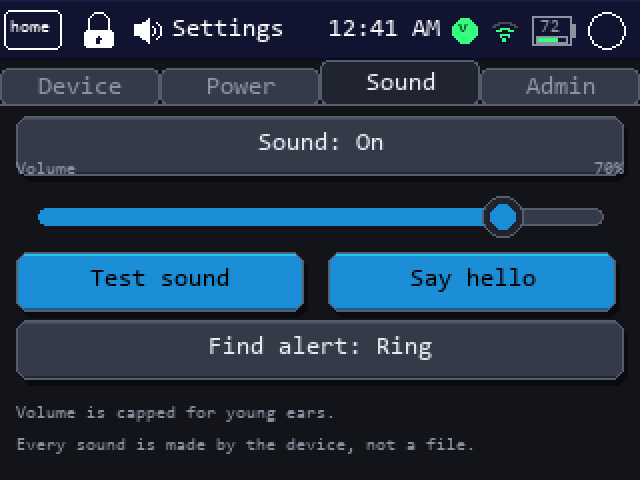
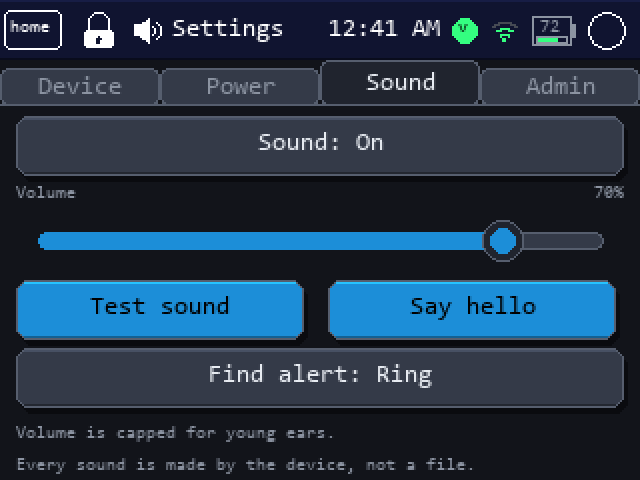
The Sound tab measures its own stack, and the mock-up stops lying about it
"Volume" was printed across the bottom of the mute switch on every console.
The caption is drawn 12px above the slider; the slider sat on the shared grid's
row 1 at y=92; the mute button above it ran 58 to 88. So the caption landed at
80, eight pixels inside a button it was never meant to touch, on every board,
since the grid's pitch last changed.

What kept it out of sight is the more interesting half. The comment above
muteRect() described the stack as 58 / 104 / 148 -- a pitch of about 45 that
gridRowPitch() has not produced for some time -- and tools/gen_screens.py had
copied those same literals. So docs/screens/settings-sound.png drew a layout
the firmware was not producing, and the picture and the panel were only ever
compared to themselves. A mock-up that restates numbers cannot catch a layout
bug; it can only agree with whichever comment it was written from.

The fix is not a nudged line, because the tab genuinely does not fit the shared
grid. Every other tab stacks four plain buttons, which is exactly what a 34px
pitch is sized for; this one has those four controls plus a caption line plus
two footnotes, and a 44px slider band will not go into a 34px row. So the Sound
tab now measures its own bands, each from the one above it, borrowing only the
row height so its buttons still match the other tabs. On 240 that is mute
58-88, caption 92-104, track 104-136, tests 140-170, find alert 174-204,
[…]

Changed region(s): [[0.0, 0.3125, 1.0, 1.0]]

diff --git a/src/games/SettingsPanels.cpp b/src/games/SettingsPanels.cpp
@@ -43,6 +43,13 @@ constexpr int16_t SETTINGS_TOP = 58;
 constexpr int16_t SETTINGS_BOTTOM_RESERVE = 36;   // the brightness bar
 constexpr int16_t SETTINGS_MIN_PITCH = 34;
 constexpr int16_t SETTINGS_MAX_ROW_H = 44;
+
+/* The Sound tab's own stack -- see the comment above muteRect(). Gaps rather
+ * than a pitch, because this tab's bands are not all the same height. */
+constexpr int16_t SOUND_GAP = 4;
+constexpr int16_t SOUND_CAPTION_H = 12;   // the "Volume" / "70%" line
+constexpr int16_t SOUND_TRACK_H = 32;     // the slider itself
+constexpr int16_t SOUND_FOOT_GAP = 8;
 }  // namespace
 
 int16_t SettingsApp::gridRowPitch() const {
@@ -91,46 +98,72 @@ Rect SettingsApp::brightRect() const {
                 static_cast<int16_t>(panelW_ - SETTINGS_MARGIN * 2), 32};
 }
 
-/* Sound tab.
+/* Sound tab: NOT the shared four-row grid, and it cannot be.
  *
- * Mute is a full-width row of its own because it is the control most people
- * come to this tab for and it should not have to be found. Below it the
- * volume slider, then the two test buttons side by side.
+ * Every other tab stacks four plain buttons, which is exactly what
+ * gridRowPitch() is sized for -- 34px on a 240 panel. This tab has those same
+ * four controls PLUS a caption line above the slider and two lines of
+ * footnote, and a 44px slider band does not fit in a 34px row.
  *
- * The vertical stack is NOT typed in here, and the numbers below are only a
- * reading of it -- gridRowPitch() derives the pitch from the live panel, which
- * on 240px is (240 - 36 - 8 - 58) / 4 = 34, putting the four rows at 58, 92,
- * 126 and 160, each 30 tall. Row 3 is the find-alert switch, and the two
- * explanation lines derive from it rather than sitting at a literal, so they
- * move with it; that leaves 14px of margin at the bottom.
+ * It did not fit before either, and the panel showed it: the caption is drawn
+ * 12px above the slider, the slider sat at the grid's row 1 (y=92), so the
+ * caption landed at 80 -- eight pixels INSIDE the mute button above it, which
+ * ran from 58 to 88. Every owner saw "Volume" printed across the bottom of the
+ * mute switch. What hid it from review was the mock-up: gen_screens.py had
+ * copied a comment here that still described a pitch of ~45 (rows at 58 / 104
+ * / 148), so the picture drew a layout the firmware had not produced for some
+ * time, and the two were never compared to anything but themselves.
  *
- * This comment previously stated 58 / 104 / 148 for the first three rows, from
- * a pitch that has not held for some time, and tools/gen_screens.py had copied
- * those literals -- which is why the mock-up disagreed with the panel without
- * anything noticing. Read the numbers off gridRowPitch(), or do not state them.
+ * So this tab measures its own bands, in the order they are drawn, each from
+ * the one above it. The row height is still borrowed from the grid so the
+ * buttons match the other tabs, and everything scales with the panel: on 240
+ * that is mute 58-88, caption 92-104, track 104-136, tests 140-170, find alert
+ * 174-204, footnotes at 212 and 228, ending 4px clear of the bottom.
  *
- * Row 3 was the one spare row this tab had, and it is now spent: anything
- * further needs a tab of its own rather than a squeeze.
- *
- * The footnotes are derived from the last row rather than fixed, so they move
- * with it -- they were at a literal 190/206 once, which put them straight
- * through the test buttons on a taller panel. */
-Rect SettingsApp::muteRect()      const { return gridWide(0); }
-/* Takes the grid's position but keeps its designed height.
- *
- * A button gets easier to hit as it grows; a slider does not -- what matters
- * is the length of its travel, which is already the full width. Letting it
- * take the grid's row height made the rect 46px tall, and drawSlider centres
- * the track inside the rect, so the track sank while the "Volume" caption
- * stayed pinned above the rect's top edge and was left floating in the gap.
- * The brightness bar has always been a fixed 32 for the same reason. */
-Rect SettingsApp::volumeRect()    const {
-    const Rect r = gridWide(1);
-    return Rect{r.x, r.y, r.w, 32};
+ * Do not restate those numbers anywhere else. Derive them, as gen_screens.py
+ * now does, or the next reader inherits the same lie. */
+Rect SettingsApp::muteRect() const {
+    return Rect{SETTINGS_MARGIN, SETTINGS_TOP,
+                static_cast<int16_t>(panelW_ - SETTINGS_MARGIN * 2),
+                gridRowHeight()};
 }
-Rect SettingsApp::testCueRect()   const { return gridCell(2, 0); }
-Rect SettingsApp::testVoiceRect() const { return gridCell(2, 1); }
-Rect SettingsApp::findAlertRect() const { return gridWide(3); }
+
+/* The slider TRACK, with its caption in the SOUND_CAPTION_H above it.
+ *
+ * A fixed height rather than the row height: a button gets easier to hit as it
+ * grows, a slider does not -- what matters is the length of its travel, which
+ * is already the full width. Letting it take a 46px row made drawSlider centre
+ * the track low while the caption stayed pinned to the rect's top edge, and
+ * left the two floating apart. */
+Rect SettingsApp::volumeRect() const {
+    const Rect m = muteRect();
+    return Rect{SETTINGS_MARGIN,
+                static_cast<int16_t>(m.y + m.h + SOUND_GAP + SOUND_CAPTION_H),
+                static_cast<int16_t>(panelW_ - SETTINGS_MARGIN * 2),
+                SOUND_TRACK_H};
+}
+
+Rect SettingsApp::testCueRect() const {
+    const Rect v = volumeRect();
+    const int16_t colW = static_cast<int16_t>(
+        (panelW_ - SETTINGS_MARGIN - SETTINGS_GAP - SETTINGS_GAP) / 2);
+    return Rect{SETTINGS_MARGIN,
+                static_cast<int16_t>(v.y + v.h + SOUND_GAP), colW,
+                gridRowHeight()};
+}
+
+Rect SettingsApp::testVoiceRect() const {
+    const Rect a = testCueRect();
+    return Rect{static_cast<int16_t>(SETTINGS_MARGIN + a.w + SETTINGS_GAP),
+                a.y, a.w, a.h};
+}
+
+Rect SettingsApp::findAlertRect() const {
+    const Rect t = testCueRect();
+    return Rect{SETTINGS_MARGIN, static_cast<int16_t>(t.y + t.h + SOUND_GAP),
+                static_cast<int16_t>(panelW_ - SETTINGS_MARGIN * 2),
+                gridRowHeight()};
+}
 
 /* Power tab: four full-width rows, so the labels have room to say what the
  * setting actually does rather than abbreviating to fit half a screen.
@@ -363,12 +396,12 @@ void SettingsApp::renderSoundTab(GameHost& host) {
     /* The footnotes sit under the test buttons, so they move with them. They
      * were at a fixed 190/206, which was under the buttons at 240 tall and
      * straight through them on a taller panel. */
-    const int16_t soundFootY =
-        static_cast<int16_t>(findAlertRect().y + findAlertRect().h + 12);
+    const int16_t soundFootY = static_cast<int16_t>(
+        findAlertRect().y + findAlertRect().h + SOUND_FOOT_GAP);
 
     tft.setTextColor(Ui::muted(), Ui::bg());
     tft.setTextDatum(TL_DATUM);
-    tft.drawString("Volume", 8, static_cast<int16_t>(volumeRect().y - 12), 1);
+    tft.drawString("Volume", 8, static_cast<int16_t>(volumeRect().y - SOUND_CAPTION_H), 1);
     tft.setTextDatum(TR_DATUM);
     if (!present) {
         snprintf(label, sizeof(label), "--");
@@ -380,7 +413,7 @@ void SettingsApp::renderSoundTab(GameHost& host) {
     } else {
         snprintf(label, sizeof(label), "%u%%", board.volume());
     }
-    tft.drawString(label, panelW_ - 8, static_cast<int16_t>(volumeRect().y - 12), 1);
+    tft.drawString(label, panelW_ - 8, static_cast<int16_t>(volumeRect().y - SOUND_CAPTION_H), 1);
     tft.setTextDatum(TL_DATUM);
 
     Ui::drawSlider(tft, volumeRect(), present ? board.volume() : 0, 0,

diff --git a/tools/gen_screens.py b/tools/gen_screens.py
@@ -1785,34 +1785,37 @@ def settings_sound():
     """Settings tab: the mute switch and the volume, with the two test buttons.
 
     Geometry from muteRect() / volumeRect() / testCueRect() / testVoiceRect() /
-    findAlertRect(), all four rows of one grid -- so it is computed here the
-    way SettingsPanels computes it rather than typed in:
+    findAlertRect(). This tab does NOT use the shared four-row grid -- it has
+    the same four controls plus a caption line and two footnotes, which does
+    not fit a 34px pitch -- so it measures its own bands, each from the one
+    above, and this reproduces that arithmetic rather than restating its
+    output:
 
-        pitch  = (240 - SETTINGS_BOTTOM_RESERVE 36 - MARGIN 8 - TOP 58) // 4
-        row(n) = 58 + n * pitch,  height = pitch - 4
+        rowH  = gridRowHeight()  = (240 - 36 - 8 - 58) // 4 - 4  = 30
+        mute  = 58, rowH
+        track = mute.bottom + 4 + 12 (the caption), 32
+        tests = track.bottom + 4, rowH
+        find  = tests.bottom + 4, rowH
+        foot  = find.bottom + 8, then +16
 
-    which is 34 and rows at 58/92/126/160. The literals that were here before
-    -- 58/104/148 -- came from a comment describing a pitch of ~45, and had
-    drifted: the picture showed the test buttons 22px lower than the panel puts
-    them. Nothing flagged it, because a mock-up is only ever compared to
-    itself. Adding the fourth row is what made the two disagree visibly.
-
-    Drawn mid-travel rather than at the default. The default is AT the ceiling
-    (Board::AUDIO_VOLUME_MAX, 85), and a slider drawn full-width would show
-    nothing about the range -- a picture of a handle at the right-hand end
-    looks like 100% whatever the readout says. The ceiling is a fact for the
-    prose to carry; what the picture is for is the layout.
+    The literals that were here once -- 58 / 104 / 148 -- came from a comment
+    describing a pitch of ~45 and had drifted. Because this file had copied
+    them, the picture and the panel were never compared to each other, which
+    is how the caption came to be printed across the bottom of the mute button
+    on every console without anything noticing.
     """
     im, d = blank(); topbar(d, "Settings")
     settings_tabs(d, 2)
-    pitch = (240 - 36 - 8 - 58) // 4
-    row = lambda n: 58 + n * pitch
-    h = pitch - 4
-    button(d, (8, row(0), 304, h), "Sound: On")
-    d.text((8, row(1) - 12), "Volume", font=F1, fill=MUTED)
-    d.text((312 - d.textlength("70%", font=F1), row(1) - 12), "70%",
+    h = (240 - 36 - 8 - 58) // 4 - 4          # gridRowHeight()
+    mute_y = 58
+    track_y = mute_y + h + 4 + 12              # SOUND_GAP + SOUND_CAPTION_H
+    tests_y = track_y + 32 + 4
+    find_y = tests_y + h + 4
+    button(d, (8, mute_y, 304, h), "Sound: On")
+    d.text((8, track_y - 12), "Volume", font=F1, fill=MUTED)
+    d.text((312 - d.textlength("70%", font=F1), track_y - 12), "70%",
            font=F1, fill=MUTED)
-    r = (8, row(1), 304, 32)
+    r = (8, track_y, 304, 32)
     cy = r[1] + r[3] // 2
     pad, span = 11, r[2] - 22
     fill = int(70 / 85 * span)          # value / AUDIO_VOLUME_MAX
@@ -1825,12 +1828,12 @@ def settings_sound():
     hx = r[0] + pad + fill
     d.ellipse([hx - 10, cy - 10, hx + 10, cy + 10], fill=SURFACE, outline=OUTLINE)
     d.ellipse([hx - 6, cy - 6, hx + 6, cy + 6], fill=ACCENT)
-    button(d, (8, row(2), 144, h), "Test sound", ACCENT, on_fill(ACCENT))
-    button(d, (164, row(2), 144, h), "Say hello", ACCENT, on_fill(ACCENT))
-    # Row 3, the tab's last spare row. An ordinary panel button because it
-    # stays live while the console is muted, unlike everything above it.
-    button(d, (8, row(3), 304, h), "Find alert: Ring")
-    foot = row(3) + h + 12
+    button(d, (8, tests_y, 144, h), "Test sound", ACCENT, on_fill(ACCENT))
+    button(d, (164, tests_y, 144, h), "Say hello", ACCENT, on_fill(ACCENT))
+    # An ordinary panel button because it stays live while the console is
+    # muted, unlike everything above it.
+    button(d, (8, find_y, 304, h), "Find alert: Ring")
+    foot = find_y + h + 8
     d.text((8, foot), "Volume is capped for young ears.", font=F1, fill=MUTED)
     d.text((8, foot + 16), "Every sound is made by the device, not a file.",
            font=F1, fill=MUTED)

diff --git a/CLAUDE.md b/CLAUDE.md
@@ -571,7 +571,7 @@ The same reasoning applies to any lock PlatformIO itself leaves in `~/.platformi
 
 ### Shared budgets
 
-Flash is global and nearly the binding constraint (2,559,601 / 3,145,728 bytes,
+Flash is global and nearly the binding constraint (2,559,745 / 3,145,728 bytes,
 **81.4%**; NimBLE plus the BT controller account for ~192 KB of that). RAM sits
 at 86,876 / 327,680 (26.5%) -- higher than it was, deliberately: RowList traded
 864 bytes of static RAM for zero heap traffic and storage diagnostics keep their

diff --git a/README.md b/README.md
@@ -30,7 +30,7 @@ no data collection.** Two radios exist and both are narrow by design:
 | | |
 |---|---|
 | Games | 38 |
-| Flash | 2,559,601 / 3,145,728 bytes (**81.4%**) |
+| Flash | 2,559,745 / 3,145,728 bytes (**81.4%**) |
 | RAM | 86,876 / 327,680 bytes (**26.5%**) |
 | Artwork | 195 country flags, 50 state flags, 50 state outlines — 763 KB (34% of the image) |
 
